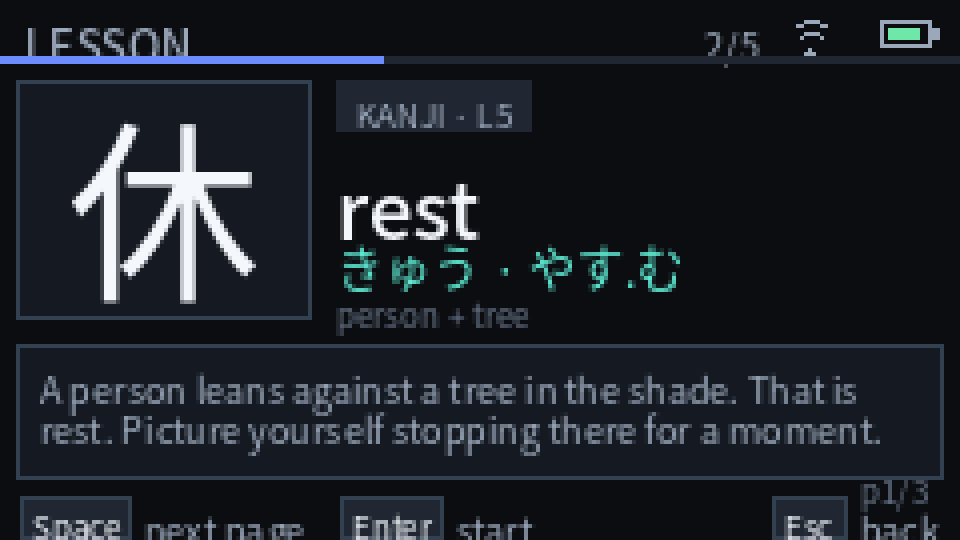
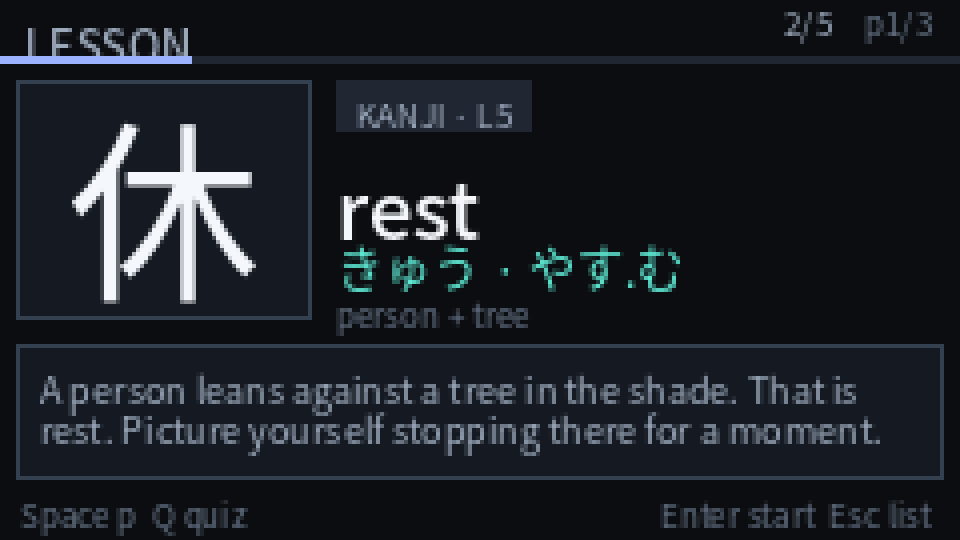
fix: tidy lesson header and hint layout

diff --git a/firmware/src/main.cpp b/firmware/src/main.cpp
@@ -2078,17 +2078,81 @@ void drawLesson() {
     d.setTextDatum(lgfx::top_left);
     d.setTextWrap(false);
 
+    std::string meaning;
+    for (const kk::Meaning& m : s->meanings)
+        if (m.accepted) {
+            meaning = m.text;
+            break;
+        }
+    if (meaning.empty() && !s->meanings.empty()) meaning = s->meanings[0].text;
+
+    std::string reading;
+    for (const kk::Reading& r : s->readings)
+        if (r.accepted && r.primary) {
+            reading = r.text;
+            break;
+        }
+    if (reading.empty())
+        for (const kk::Reading& r : s->readings)
+            if (r.accepted) {
+                reading = r.text;
+                break;
+            }
+
+    std::string mnemonic = s->meaningMnemonic;
+    if (mnemonic.empty()) mnemonic = s->readingMnemonic;
+    if (mnemonic.empty()) mnemonic = s->meaningHint;
+    if (mnemonic.empty()) mnemonic = "No mnemonic cached.";
+    std::string components;
+    for (uint32_t id : s->componentSubjectIds) {
+        const kk::Subject* c = lessonComponentById(id);
+        if (!c) continue;
+        const std::string componentMeaning = subjectMainMeaning(*c);
+        if (componentMeaning.empty()) continue;
+        if (!components.empty()) components += " + ";
+        components += componentMeaning;
+    }
+    std::string extra;
+    if (!components.empty()) extra += "Components: " + components + ". ";
+    if (!s->meaningHint.empty()) extra += "Hint: " + s->meaningHint + ". ";
+    if (!s->readingHint.empty()) extra += "Reading hint: " + s->readingHint + ". ";
+    if (!s->meaningNote.empty()) extra += "Meaning note: " + s->meaningNote + ". ";
+    if (!s->readingNote.empty()) extra += "Reading note: " + s->readingNote + ". ";
+    if (!extra.empty()) mnemonic += " " + extra;
+    const std::vector<std::string> lines = wrapLines(d, mnemonic, 232);
+    const size_t pages = (lines.size() + 2) / 3;
+    if (gLessonPage >= pages) gLessonPage = pages - 1;
+
     d.setTextFont(1);
     d.setTextSize(1);
     d.setTextColor(kDim, kBg);
     d.drawString("LESSON", 6, 3);
-    d.setTextFont(0);
-    d.setTextDatum(lgfx::top_right);
+    const size_t total = gLessonBatch.assignments.size();
     char pos[20];
     snprintf(pos, sizeof pos, "%u/%u", static_cast<unsigned>(gLessonIndex + 1),
-             static_cast<unsigned>(gLessonBatch.assignments.size()));
-    d.drawString(pos, 233, 5);
+             static_cast<unsigned>(total));
+    char page[20];
+    snprintf(page, sizeof page, "p%u/%u", static_cast<unsigned>(gLessonPage + 1),
+             static_cast<unsigned>(pages));
+    // Keep both counters in the header row: the page is right-aligned and the
+    // item position sits to its left. In the 6 px font, "p12/12" plus "10/10"
+    // and the 8 px gap still leave the header's left side free.
+    constexpr int kHeaderRight = 233;
+    constexpr int kHeaderGap = 8;
+    d.setTextFont(0);
+    d.setTextSize(1);
+    d.setTextDatum(lgfx::top_right);
+    d.setTextColor(kFaint, kBg);
+    d.drawString(page, kHeaderRight, 5);
+    d.setTextColor(kDim, kBg);
+    d.drawString(pos, kHeaderRight - d.textWidth(page) - kHeaderGap, 5);
     d.setTextDatum(lgfx::top_left);
+
+    d.fillRect(0, 14, 240, 2, kSurfaceHi);
+    if (total > 0) {
+        const int progressWidth = static_cast<int>(240u * gLessonIndex / total);
+        d.fillRect(0, 14, progressWidth, 2, kAccentHi);
+    }
 
     d.fillRect(4, 20, 74, 64, kSurface);
     d.drawRect(4, 20, 74, 64, kLine);
@@ -2105,31 +2169,12 @@ void drawLesson() {
     d.setTextSize(1);
     drawPill(d, 86, 20, type, kDim, kSurfaceHi);
 
-    std::string meaning;
-    for (const kk::Meaning& m : s->meanings)
-        if (m.accepted) {
-            meaning = m.text;
-            break;
-        }
-    if (meaning.empty() && !s->meanings.empty()) meaning = s->meanings[0].text;
     d.setTextFont(1);
     d.setTextSize(1);
     d.setTextColor(kText, kBg);
     while (meaning.size() > 1 && d.textWidth(meaning.c_str()) > 148) meaning.pop_back();
     d.drawString(meaning.c_str(), 86, 38);
 
-    std::string reading;
-    for (const kk::Reading& r : s->readings)
-        if (r.accepted && r.primary) {
-            reading = r.text;
-            break;
-        }
-    if (reading.empty())
-        for (const kk::Reading& r : s->readings)
-            if (r.accepted) {
-                reading = r.text;
-                break;
-            }
     if (!reading.empty()) {
         if (!gPack.drawTextFit(d, reading, 86, 80, 32, 148, kReading, kBg,
                                kk::ClipRect{86, 50, 236, 88}) &&
@@ -2142,29 +2187,6 @@ void drawLesson() {
         }
     }
 
-    std::string mnemonic = s->meaningMnemonic;
-    if (mnemonic.empty()) mnemonic = s->readingMnemonic;
-    if (mnemonic.empty()) mnemonic = s->meaningHint;
-    if (mnemonic.empty()) mnemonic = "No mnemonic cached.";
-    std::string components;
-    for (uint32_t id : s->componentSubjectIds) {
-        const kk::Subject* c = lessonComponentById(id);
-        if (!c) continue;
-        const std::string meaning = subjectMainMeaning(*c);
-        if (meaning.empty()) continue;
-        if (!components.empty()) components += " + ";
-        components += meaning;
-    }
-    std::string extra;
-    if (!components.empty()) extra += "Components: " + components + ". ";
-    if (!s->meaningHint.empty()) extra += "Hint: " + s->meaningHint + ". ";
-    if (!s->readingHint.empty()) extra += "Reading hint: " + s->readingHint + ". ";
-    if (!s->meaningNote.empty()) extra += "Meaning note: " + s->meaningNote + ". ";
-    if (!s->readingNote.empty()) extra += "Reading note: " + s->readingNote + ". ";
-    if (!extra.empty()) mnemonic += " " + extra;
-    const std::vector<std::string> lines = wrapLines(d, mnemonic, 232);
-    const size_t pages = (lines.size() + 2) / 3;
-    if (gLessonPage >= pages) gLessonPage = pages - 1;
     d.setTextFont(0);
     d.setTextSize(1);
     d.setTextColor(kDim, kBg);
@@ -2173,13 +2195,6 @@ void drawLesson() {
         if (idx >= lines.size()) break;
         d.drawString(lines[idx].c_str(), 5, 92 + static_cast<int>(i) * 9);
     }
-    char page[20];
-    snprintf(page, sizeof page, "p%u/%u", static_cast<unsigned>(gLessonPage + 1),
-             static_cast<unsigned>(pages));
-    d.setTextDatum(lgfx::top_right);
-    d.setTextColor(kFaint, kBg);
-    d.drawString(page, 233, 117);
-    d.setTextDatum(lgfx::top_left);
 
     d.setTextColor(kFaint, kBg);
     d.drawString("Space p  Q quiz", 5, 125);
@@ -2559,7 +2574,8 @@ void startCurrentLesson() {
     if (!gLessonActive || gLessonIndex >= gLessonBatch.assignments.size()) return;
     const kk::Assignment& a = gLessonBatch.assignments[gLessonIndex];
     const kk::Subject* s = lessonSubjectById(a.subjectId);
-    drawLoading("Starting lesson...", s ? s->characters.c_str() : "");
+    const std::string subtitle = s ? subjectMainMeaning(*s) : std::string();
+    drawLoading("Starting lesson...", subtitle.c_str());
     const uint32_t now = static_cast<uint32_t>(time(nullptr));
     gFreeCanvasForRequest = true;
     const int httpCode = kk::startAssignment(kk::DevToken::load(), a.id,

diff --git a/tools/mockups/render.py b/tools/mockups/render.py
@@ -283,7 +283,13 @@ def screen_feedback(correct: bool) -> Image.Image:
 def screen_lesson() -> Image.Image:
     im = Image.new("RGB", (W, H), BG)
     d = ImageDraw.Draw(im)
-    header(d, "LESSON", "2/5", done=2, total=5)
+    text(d, (6, 3), "LESSON", 11, DIM, medium=True)
+    page = "p1/3"
+    text(d, (W - 7, 3), page, 8, FAINT, anchor="rt")
+    text(d, (W - 7 - tw(d, page, 8) - 8, 3), "2/5", 8, DIM, anchor="rt")
+    # Item 2/5 means one completed item, so the bar is 1/5 wide.
+    rect(d, 0, 14, W, 2, SURFACE_HI)
+    rect(d, 0, 14, round(W / 5), 2, ACCENT_HI)
 
     panel(d, 4, 20, 74, 60)
     text(d, (41, 50), "休", 48, TEXT, anchor="mm")
@@ -298,9 +304,9 @@ def screen_lesson() -> Image.Image:
     lines = wrap(d, mnemonic, 9, 224)[:3]
     for i, line in enumerate(lines):
         text(d, (10, 90 + i * 10), line, 9, DIM)
-    text(d, (232, 116), "p1/3", 8, FAINT, anchor="ra")
 
-    hints(d, [("Space", "next page"), ("Enter", "start")], [("Esc", "back")])
+    text(d, (5, 125), "Space p  Q quiz", 8, FAINT, anchor="lt")
+    text(d, (W - 7, 125), "Enter start  Esc list", 8, FAINT, anchor="rt")
     return im
 
 

diff --git a/ROADMAP.md b/ROADMAP.md
@@ -104,8 +104,8 @@ Working on hardware:
 - 57 native tests and the release build run in GitHub Actions alongside
   gitleaks on pushes to `main` and on pull requests.
 
-Current build: **1,400,881 B / 1,835,008 B flash (76.3%)**, **94,696 B /
-327,680 B static RAM (28.9%)**. The dev image is 1,408,329 B. Removing
+Current build: **1,401,005 B / 1,835,008 B flash (76.3%)**, **94,696 B /
+327,680 B static RAM (28.9%)**. The dev image is 1,408,461 B. Removing
 `efontJA_16` freed ~468 KB and leaves ~425 KB of flash headroom.
 
 ## Priority summary
@@ -137,7 +137,7 @@ lesson flow.
 | 3 | Setup and device UX | TNG-02 | OTA release path (setup/settings complete) |
 | 4 | WaniKani data and detail | WK-11 (WK-01/03/04/05/06/07/08/09/10 done) | Review history and progress |
 | 5 | API robustness | API-05 → API-07 (API-01/02/03/04/06 done) | Recoverable rate-limited and auth errors |
-| 6 | UI, stats and sync | UI-05 → UI-08 (UI-01/02/03/04 done) | Polish |
+| 6 | UI, stats and sync | UI-05 → UI-08 (UI-01/02/03/04/06 done) | Polish |
 | 7 | Technical debt and release | TECH-01 → TECH-07 (TECH-04 done) | Refactor, version, OTA and license |
 | 8 | Kakehashi-inspired extras | EXT-01 → EXT-09 | Practice modes, critical items, audio and stats |
 
@@ -450,7 +450,14 @@ the device; account/study preferences and clear error actions remain.
 - **UI-05 — Level progress.** Current level, progress to next level and
   level-up feedback (with WK-07).
 - **UI-06 — Lesson layout fixes.** Page counter, hint bar spacing and the
-  `drawLoading` Japanese subtitle that can be blank.
+  `drawLoading` Japanese subtitle that can be blank. **Done (2026-10-29):**
+  the header keeps `2/5` and adds `p1/3` to its right with an 8 px gap, well
+  clear of `LESSON`; the old y=117 page line is gone. A 2 px item progress bar
+  at y=14 fills for completed items and leaves a 4 px gap before the card. The
+  y=125 hint bar holds `Space p  Q quiz` (90 px) left and
+  `Enter start  Esc list` (126 px) right, leaving a 12 px gap in 228 px.
+  `startCurrentLesson()` passes the English main meaning to `drawLoading`.
+  Mockups and docs updated; 57 native tests and both firmware builds pass.
 - **UI-07 — Missing pack/glyph states.** The prompt state exists; finish the
   full startup/setup wording and actions.
 - **UI-08 — Palette and screenshots.** Revisit the RGB332 palette after real

diff --git a/docs/ux.md b/docs/ux.md
@@ -460,15 +460,23 @@ the mnemonic.
 
 ![Lesson](screens/lesson.png)
 
-- Header `LESSON`, `2/5`, progress.
+- Header `LESSON`: item position `2/5` and mnemonic page `p1/3` are
+  right-aligned on the same row with an 8 px gap. This screen has no
+  Wi-Fi/battery icons.
+- A live 2 px progress bar at y=14 shows the completed lesson items; the card
+  starts at y=20.
 - Left panel: 48 px character/radical.
 - Right: pill `KANJI · L5`, main meaning in 20 px, readings in teal at 14 px,
   `person + tree` in gray.
-- Mnemonic in a 3-line, 10 px panel; `Space` turns the page.
-- `p1/3` in the corner.
+- Mnemonic in a 3-line, 10 px panel; `Space` turns the page. The page counter
+  stays in the header so it never covers the third line.
 - `Q quiz` opens the optional local quiz; `Enter start` / `Needs connection` if
   there's no network.
-- On start, a brief progress animation and the next card; `Esc` returns to the
+- Bottom hint: `Space p  Q quiz` left and `Enter start  Esc list` right at
+  y=125, with a gap between them.
+- On start, `drawLoading` shows the English main meaning as its subtitle; the
+  built-in font has no Japanese glyphs, so the character is not used there.
+  Then a brief progress animation and the next card; `Esc` returns to the
   list. The card itself only reads until `Enter`.
 
 ### 5.10 Lesson quiz
